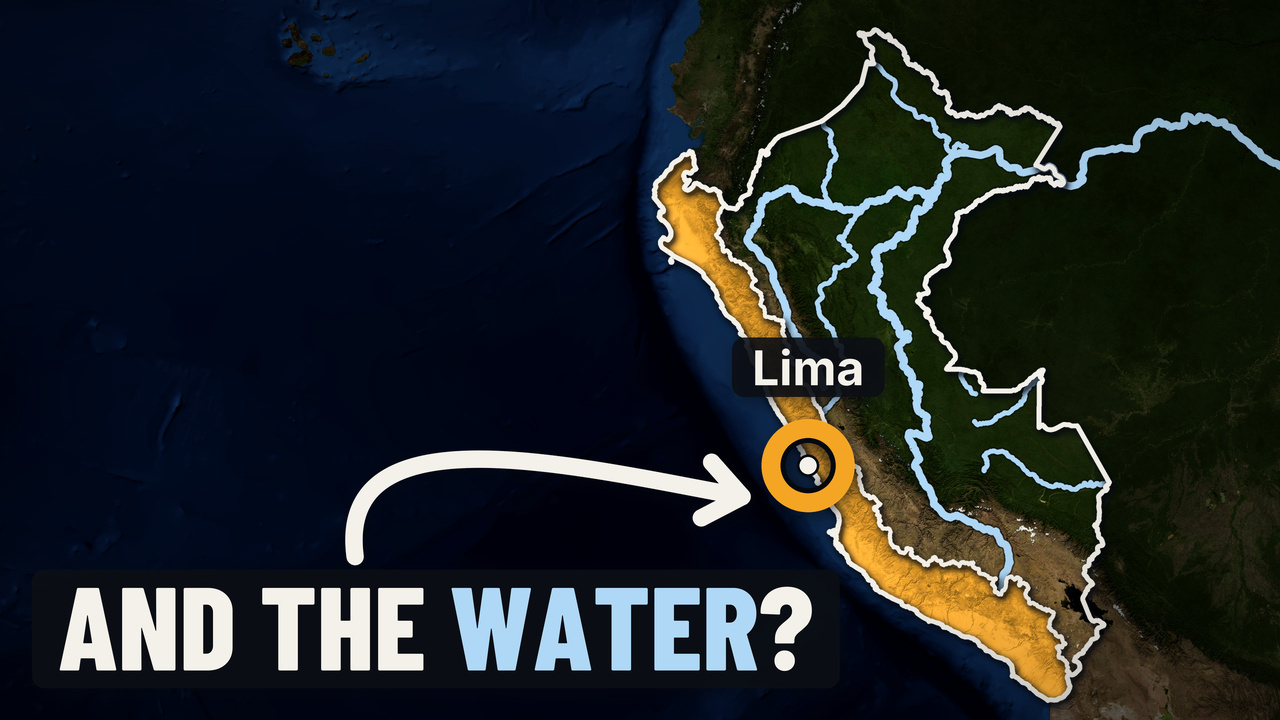
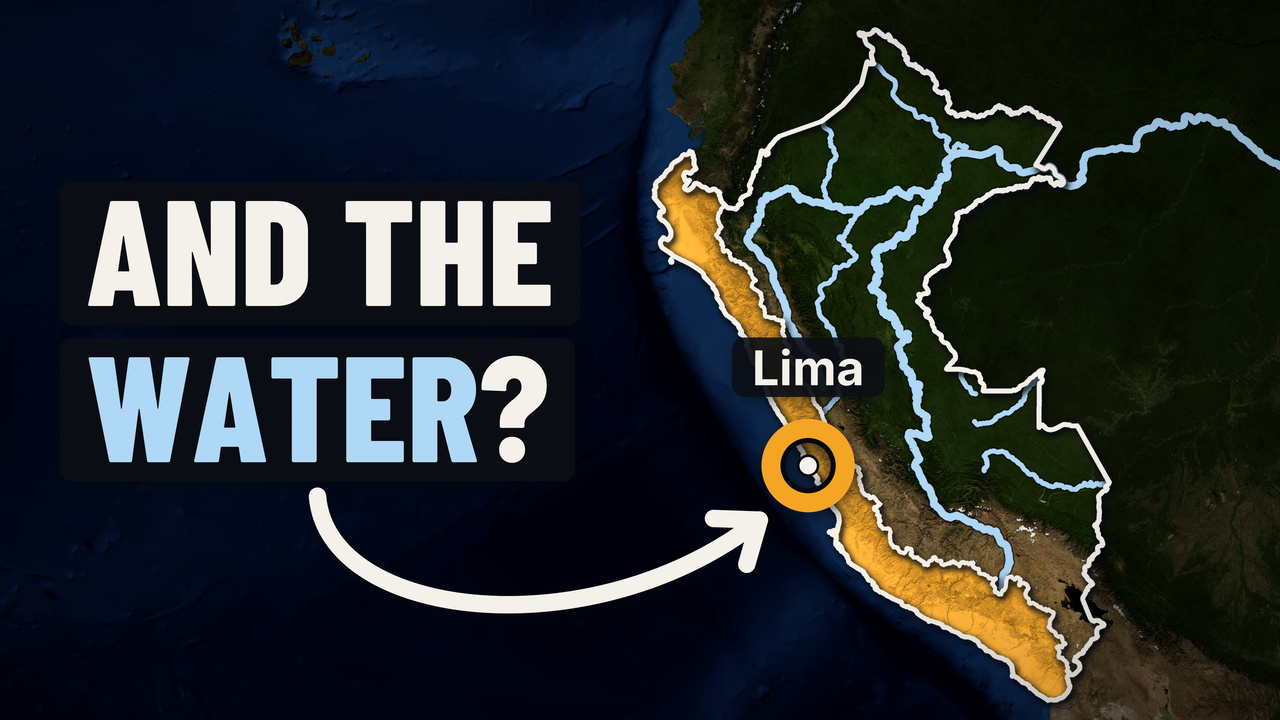
Vídeo 4 (Peru): a miniatura A2 (texto em duas linhas, 300 px, no centro-esquerda; a seta saindo de baixo até Lima)
O Lucas, depois de ver a A: "A thumb talvez pudesse ter o texto mais no centro esquerdo com a seta na parte inferior. Poderia ser fonte
maior em duas linhas". À A2: "Fica a A2 (Recomendado)". base-A2.py e A2-pontos.json em roteiros/peru-agua/miniatura/; os JPG de 1280 e
2560 são a A2.

Changed region(s): [[0.0312, 0.4889, 0.6562, 0.9472], [0.0625, 0.275, 0.4375, 0.4278]]

diff --git a/roteiros/peru-agua/miniatura/base-A2.py b/roteiros/peru-agua/miniatura/base-A2.py
@@ -1,0 +1,310 @@
+"""A miniatura A do vídeo 4 (Peru, "Why Peru Lives on the Dry Side of the Andes"): O CONTRASTE. Versão A2.
+
+    python -X utf8 -B out/peru-agua/_tmp/miniatura/A2/base-A2.py        (da raiz do canal; sem rede)
+
+A2 (Lucas, 24/10/2026: "A thumb talvez pudesse ter o texto mais no centro esquerdo com a seta na parte inferior. Poderia ser fonte maior
+em duas linhas"): a pílula-herói em duas linhas ("AND THE" / "WATER?"), aos 300 px da receita (marca/embalagem.md §3), no centro-esquerda
+sobre o Pacífico, e a seta saindo de baixo dela até o anel de Lima. A base, o Peru, o lado seco, os rios, a divisória, o anel e o nome são
+os da A, sem mudança. Grava em out/peru-agua/_tmp/miniatura/A2/.
+
+A IDEIA. O Peru visto de cima, partido pela divisória dos Andes: o lado do Pacífico (estreito, seco, onde vive a maioria) pintado
+de --destaque, o protagonista; o lado da Amazônia (largo, verde, onde está a água) no satélite, com os rios em --agua. Lima, no lado
+seco, marcada pela receita com pílula (marca/embalagem.md §3): o anel, o ponto, o nome e a seta que sai da pílula-herói. A pílula
+faz a pergunta que o título deixa aberta, sem dar a resposta (o porquê): "AND THE WATER?", com WATER em --agua, a cor dos rios.
+
+DE ONDE VEM CADA COISA (nada desenhado à mão nem por IA):
+- a base: NASA Blue Marble Next Generation com relevo sombreado e batimetria (camada BlueMarble_ShadedRelief_Bathymetry da NASA
+  GIBS, WMS oficial, EPSG:3857), baixada por baixar-base-A.py num pedido só, com o User-Agent do canal
+  (_base/bmng-relevo-batimetria-5120-w99.jpg e o .json ao lado, com URL e sha256). A 1ª rodada usou a BlueMarble_NextGeneration
+  sem relevo (_base/bmng-peru-5120-w99.jpg): o mar saiu preto, a metade esquerda virou mancha, e os Andes ficaram lisos.
+  Domínio público (imagem da NASA); o crédito vai na descrição, não na tela. Este script não tem código de rede;
+- o Peru: _media/geo/peru-ne.json (Natural Earth 1:10m, domínio público);
+- o lado do Pacífico e a divisória: _media/geo/vertente-pacifico.json e divisoria-continental-peru.json (HydroBASINS v1c nível 6,
+  recortado pelo peru-ne; licença HydroSHEDS v1, aceita pelo Lucas em 22/10/2026; o Exhibit B vai na descrição, nada na tela);
+- os rios: _media/geo/rios-vertente-atlantico.json e amazonas-ate-o-atlantico.json (Natural Earth 1:10m, domínio público). Nenhuma
+  camada do OpenStreetMap (pediria o crédito na tela);
+- Lima: _media/geo/cidades-peru-ne.json (Natural Earth, -77.052008, -12.046067).
+
+Grava em out/peru-agua/_tmp/miniatura/A/: miniatura-A-2560.png, miniatura-A-1280.jpg (≤ 2 MB), miniatura-A-320.png,
+miniatura-A-168.png e A-pontos.json (as conferências).
+"""
+import json, math, os
+import numpy as np
+import cv2
+from PIL import Image, ImageDraw, ImageFilter, ImageFont
+
+RAIZ = os.getcwd()
+AQUI = os.path.join(RAIZ, "out", "peru-agua", "_tmp", "miniatura", "A")      # a base baixada da A
+SAIDA = os.path.join(RAIZ, "out", "peru-agua", "_tmp", "miniatura", "A2")
+GEO = os.path.join(RAIZ, "out", "peru-agua", "_media", "geo")
+FONTES = os.path.join(RAIZ, "marca", "fontes")
+W, H = 2560, 1440
+SS = 2  # supersample das camadas vetoriais
+
+# o quadro: o mesmo bbox do pedido à GIBS (EPSG:3857, metros); 72 px por grau de longitude no palco
+R = 6378137.0
+X0, X1, Y0, Y1 = -11076290.0, -7118290.0, -2137340.0, 89060.0
+MPP = (X1 - X0) / W
+assert abs((Y1 - Y0) / H - MPP) < 1.0
+
+# a marca (marca/tokens.css)
+TINTA = np.array((244, 241, 234), float)       # --tinta
+DEST = np.array((245, 165, 36), float)         # --destaque
+AGUA = (175, 216, 246)                         # --agua
+ROTULO = (11, 15, 20, int(0.88 * 255))         # --rotulo
+ESCURO = (4, 8, 16)
+
+
+def palco(lon, lat, s=1):
+    x = R * math.radians(lon)
+    y = R * math.log(math.tan(math.pi / 4 + math.radians(lat) / 2))
+    return ((x - X0) / MPP * s, (Y1 - y) / MPP * s)
+
+
+def ler(nome):
+    return json.load(open(os.path.join(GEO, nome), encoding="utf-8"))
+
+
+def aneis(geom):
+    if geom["type"] == "Polygon":
+        return [geom["coordinates"]]
+    if geom["type"] == "MultiPolygon":
+        return geom["coordinates"]
+    return []
+
+
+def linhas(geom):
+    if geom["type"] == "LineString":
+        return [geom["coordinates"]]
+    if geom["type"] == "MultiLineString":
+        return geom["coordinates"]
+    return []
+
+
+def mascara(fc):
+    im = Image.new("L", (W * SS, H * SS), 0)
+    d = ImageDraw.Draw(im)
+    for f in fc["features"]:
+        for poli in aneis(f["geometry"]):
+            ext, *buracos = poli
+            d.polygon([palco(*p, SS) for p in ext], fill=255)
+            for b in buracos:
+                d.polygon([palco(*p, SS) for p in b], fill=0)
+    return np.asarray(im.resize((W, H), Image.LANCZOS)).astype(float) / 255.0
+
+
+def borrar(a, r):
+    return np.asarray(Image.fromarray((np.clip(a, 0, 1) * 255).astype(np.uint8)).filter(ImageFilter.GaussianBlur(r))) / 255.0
+
+
+def tracos(fc, larg, filtro=lambda f: True):
+    """as linhas de um FeatureCollection como máscara (0..1), com a largura em px do palco"""
+    im = Image.new("L", (W * SS, H * SS), 0)
+    d = ImageDraw.Draw(im)
+    for f in fc["features"]:
+        if not filtro(f):
+            continue
+        lw = larg(f) if callable(larg) else larg
+        for ln in linhas(f["geometry"]):
+            pts = [palco(*p, SS) for p in ln]
+            d.line(pts, fill=255, width=int(lw * SS), joint="curve")
+            r = lw * SS / 2
+            for p in (pts[0], pts[-1]):
+                d.ellipse([p[0] - r, p[1] - r, p[0] + r, p[1] + r], fill=255)
+    return np.asarray(im.resize((W, H), Image.LANCZOS)).astype(float) / 255.0
+
+
+def contorno(fc, lw):
+    im = Image.new("L", (W * SS, H * SS), 0)
+    d = ImageDraw.Draw(im)
+    for f in fc["features"]:
+        for poli in aneis(f["geometry"]):
+            for anel in poli:
+                pts = [palco(*p, SS) for p in anel]
+                d.line(pts + [pts[0]], fill=255, width=int(lw * SS), joint="curve")
+    return np.asarray(im.resize((W, H), Image.LANCZOS)).astype(float) / 255.0
+
+
+def compor(img, cor, a):
+    return img * (1 - a[..., None]) + np.asarray(cor, float)[None, None, :3] * a[..., None]
+
+
+# 1 · a base: a Blue Marble, ao palco, com o filtro da receita (brightness .9, saturate 1, contrast 1.05)
+b = Image.open(os.path.join(AQUI, "_base", "bmng-relevo-batimetria-5120-w99.jpg")).convert("RGB").resize((W, H), Image.LANCZOS)
+img = np.asarray(b).astype(float) / 255.0
+img = np.clip(((img * 0.9) - 0.5) * 1.05 + 0.5, 0, 1) * 255.0
+lum = img @ np.array([0.2126, 0.7152, 0.0722])
+
+# 2 · o Peru e os vizinhos: fora do Peru, a base cai a 62 % (o Peru salta); dentro, como está
+peru_fc = ler("peru-ne.json")
+peru = mascara(peru_fc)
+img = img * (0.66 + 0.56 * peru)[..., None]  # rodada 2: dentro do Peru, 1,22× (o verde da Amazônia saía escuro demais em 168 px)
+
+# 3 · o lado do Pacífico em --destaque, com o relevo da base por baixo (a luminância local modula o laranja)
+pac_fc = ler("vertente-pacifico.json")
+pac = mascara(pac_fc) * peru
+lm = float(lum[pac > 0.5].mean())
+sombra_rel = np.clip(0.62 + 0.42 * (lum / lm), 0.55, 1.18)
+laranja = DEST[None, None, :] * sombra_rel[..., None]
+img = img * (1 - 0.80 * pac[..., None]) + laranja * (0.80 * pac[..., None])
+
+# 4 · os rios do lado da água, em --agua, com um filete escuro por baixo (lê sobre o verde e sobre o cinza dos vizinhos)
+rios_fc = ler("rios-vertente-atlantico.json")
+amaz_fc = ler("amazonas-ate-o-atlantico.json")
+PRINCIPAIS = {"Amazonas", "Ucayali", "Marañón"}
+larg_rio = lambda f: 15 if f["properties"].get("name") in PRINCIPAIS else 10  # rodada 2: de 11/7 para 15/10 (sumiam em 168 px)
+rios = np.maximum(tracos(rios_fc, larg_rio), tracos(amaz_fc, 15))
+rios_casco = np.maximum(tracos(rios_fc, lambda f: larg_rio(f) + 6), tracos(amaz_fc, 21))
+img = compor(img, ESCURO, 0.55 * rios_casco)
+img = compor(img, AGUA, rios)
+
+# 5 · a divisória (Pacífico × Atlântico e Pacífico × Titicaca: a borda de dentro do lado seco) e o contorno do Peru, em --tinta,
+#     com sombra deslocada
+div_fc = ler("divisoria-continental-peru.json")
+div = tracos(div_fc, 8, lambda f: f["properties"]["entre"].startswith("pacifico"))
+borda = contorno(peru_fc, 10)
+linhas_tinta = np.maximum(div, borda)
+somb = np.roll(np.roll(borrar(linhas_tinta, 7), 6, axis=0), 4, axis=1)
+img = compor(img, ESCURO, 0.70 * np.clip(somb * 2.2, 0, 1) * (1 - linhas_tinta))
+img = compor(img, TINTA, linhas_tinta)
+
+# 6 · a vinheta: até 35 % de preto nas bordas
+yy, xx = np.mgrid[0:H, 0:W]
+dn = np.sqrt(((xx - W / 2) / (W / 2)) ** 2 + ((yy - H / 2) / (H / 2)) ** 2) / math.sqrt(2)
+img = img * (1 - 0.35 * np.clip((dn - 0.45) / 0.55, 0, 1) ** 1.6)[..., None]
+
+base = Image.fromarray(np.clip(img, 0, 255).astype(np.uint8)).convert("RGBA")
+
+# 7 · as peças da receita, em supersample 2× (camada RGBA por cima)
+K = 2
+cam = Image.new("RGBA", (W * K, H * K), (0, 0, 0, 0))
+somb_l = Image.new("L", (W * K, H * K), 0)  # a sombra difusa de todas as peças
+dc, ds = ImageDraw.Draw(cam), ImageDraw.Draw(somb_l)
+
+lima = palco(-77.052008, -12.046067)
+LX, LY = lima
+
+# 7a · o anel (224 px, traço 38, --destaque, contorno escuro de 5 px por dentro e por fora) e o ponto branco de 34 px
+RA = 112 - 19  # raio do meio do traço
+for rr, lw, cor in ((RA, 38 + 10, ESCURO + (255,)), (RA, 38, tuple(DEST.astype(int)) + (255,))):
+    dc.ellipse([(LX - rr) * K, (LY - rr) * K, (LX + rr) * K, (LY + rr) * K], outline=cor, width=int(lw * K))
+ds.ellipse([(LX - RA) * K, (LY - RA) * K, (LX + RA) * K, (LY + RA) * K], outline=200, width=int(60 * K))
+RP = 17
+dc.ellipse([(LX - RP - 5) * K, (LY - RP - 5) * K, (LX + RP + 5) * K, (LY + RP + 5) * K], fill=ESCURO + (255,))
+dc.ellipse([(LX - RP) * K, (LY - RP) * K, (LX + RP) * K, (LY + RP) * K], fill=tuple(TINTA.astype(int)) + (255,))
+
+# 7b · o nome do lugar: "Lima", Inter 700, 96 px, na pílula --rotulo, acima do anel
+inter = ImageFont.truetype(os.path.join(FONTES, "inter", "Inter-VF.ttf"), 96 * K)
+inter.set_variation_by_name("Bold")
+nome = "Lima"
+bb = inter.getbbox(nome)
+PADX, PADY = 40, 22
+nw, nh = (bb[2] - bb[0]) / K + 2 * PADX, (bb[3] - bb[1]) / K + 2 * PADY
+nx0, ny1 = LX - nw / 2, LY - 112 - 26
+ny0 = ny1 - nh
+dc.rounded_rectangle([nx0 * K, ny0 * K, (nx0 + nw) * K, ny1 * K], radius=24 * K, fill=ROTULO)
+ds.rounded_rectangle([nx0 * K, ny0 * K, (nx0 + nw) * K, ny1 * K], radius=24 * K, fill=170)
+dc.text(((nx0 + PADX) * K - bb[0], (ny0 + PADY) * K - bb[1]), nome, font=inter, fill=tuple(TINTA.astype(int)) + (255,))
+
+# 7c · a pílula-herói em duas linhas, no centro-esquerda, sobre o Pacífico: Barlow Condensed 800, 300 px, CAIXA ALTA, WATER em --agua.
+#      Uma pílula por linha, alinhadas à esquerda; o bloco centrado na altura, um pouco acima do meio, para a seta caber embaixo.
+barlow = ImageFont.truetype(os.path.join(FONTES, "barlowcondensed", "BarlowCondensed-ExtraBold.ttf"), 1)
+T = tuple(TINTA.astype(int))
+LINHAS = [[("AND THE", T)], [("WATER", AGUA), ("?", T)]]
+TXT = " / ".join("".join(p for p, _ in l) for l in LINHAS)
+FS = 300
+barlow = barlow.font_variant(size=FS * K)
+tb = barlow.getbbox("AND THE WATER?")  # o alto das maiúsculas (sem descendente: a caixa alta não tem)
+HPX, HPY, GAP = 52, 36, 26
+hh = (tb[3] - tb[1]) / K + 2 * HPY
+larguras = [sum(barlow.getlength(p) for p, _ in l) / K + 2 * HPX for l in LINHAS]
+bloco_h = len(LINHAS) * hh + GAP * (len(LINHAS) - 1)
+hx0 = 120
+hy0 = round(H * 0.46 - bloco_h / 2)
+caixas = []
+y = hy0
+for linha, hw in zip(LINHAS, larguras):
+    dc.rounded_rectangle([hx0 * K, y * K, (hx0 + hw) * K, (y + hh) * K], radius=24 * K, fill=ROTULO)
+    ds.rounded_rectangle([hx0 * K, y * K, (hx0 + hw) * K, (y + hh) * K], radius=24 * K, fill=200)
+    cx = (hx0 + HPX) * K
+    for parte, cor in linha:
+        dc.text((cx, (y + HPY) * K - tb[1]), parte, font=barlow, fill=cor + (255,))
+        cx += barlow.getlength(parte)
+    caixas.append((hx0, y, hx0 + hw, y + hh))
+    y += hh + GAP
+hw = max(larguras)
+hy1 = caixas[-1][3]
+
+# 7d · a seta: --tinta, traço 34, pontas redondas, sombra; uma curva (Bézier cúbica) que sai de baixo da pílula, desce, varre para a
+#      direita por baixo e sobe até a borda do anel, chegando pelo lado de baixo à esquerda
+p0 = (hx0 + larguras[-1] * 0.50, hy1 + 30)
+alvo_ang = math.radians(228)
+p3 = (LX + (112 + 34) * math.cos(alvo_ang), LY - (112 + 34) * math.sin(alvo_ang))
+p1 = (p0[0] + 20, p0[1] + 250)
+p2 = (p3[0] - 330, p3[1] + 260)
+curva = []
+for i in range(161):
+    t = i / 160
+    x = (1 - t) ** 3 * p0[0] + 3 * (1 - t) ** 2 * t * p1[0] + 3 * (1 - t) * t * t * p2[0] + t ** 3 * p3[0]
+    y = (1 - t) ** 3 * p0[1] + 3 * (1 - t) ** 2 * t * p1[1] + 3 * (1 - t) * t * t * p2[1] + t ** 3 * p3[1]
+    curva.append((x, y))
+comp_seta = sum(math.dist(curva[i], curva[i + 1]) for i in range(160))
+dx, dy = curva[-1][0] - curva[-8][0], curva[-1][1] - curva[-8][1]
+ang = math.atan2(dy, dx)
+ponta = [(p3[0] - 92 * math.cos(ang + s * math.radians(38)), p3[1] - 92 * math.sin(ang + s * math.radians(38))) for s in (-1, 1)]
+seta = np.zeros((H * K, W * K), np.uint8)
+for seg in (curva, [ponta[0], p3], [ponta[1], p3]):  # cv2: traço grosso com pontas redondas, sem os dentes do ImageDraw
+    pts = np.array([[round(x * K * 16), round(y * K * 16)] for x, y in seg], np.int32)
+    cv2.polylines(seta, [pts], False, 255, thickness=34 * K, lineType=cv2.LINE_AA, shift=4)
+seta_l = Image.fromarray(seta)
+somb_l.paste(220, (0, 0), seta_l)
+cam_seta = Image.new("RGBA", (W * K, H * K), tuple(TINTA.astype(int)) + (0,))
+cam_seta.putalpha(seta_l)
+
+# 7e · a sombra difusa (deslocada) sob tudo, e a composição
+sombra = somb_l.resize((W, H), Image.LANCZOS).filter(ImageFilter.GaussianBlur(16))
+sombra = Image.fromarray(np.roll(np.roll(np.asarray(sombra), 10, 0), 6, 1))
+camada_sombra = Image.new("RGBA", (W, H), ESCURO + (0,))
+camada_sombra.putalpha(sombra.point(lambda v: int(v * 0.75)))
+final = Image.alpha_composite(base, camada_sombra)
+final = Image.alpha_composite(final, cam_seta.resize((W, H), Image.LANCZOS))
+final = Image.alpha_composite(final, cam.resize((W, H), Image.LANCZOS)).convert("RGB")
+
+final.save(os.path.join(SAIDA, "miniatura-A2-2560.png"))
+m1280 = final.resize((1280, 720), Image.LANCZOS)
+q = 95
+while True:
+    m1280.save(os.path.join(SAIDA, "miniatura-A2-1280.jpg"), quality=q, subsampling=0, optimize=True)
+    if os.path.getsize(os.path.join(SAIDA, "miniatura-A2-1280.jpg")) <= 2 * 1024 * 1024 or q <= 70:
+        break
+    q -= 5
+final.resize((320, 180), Image.LANCZOS).save(os.path.join(SAIDA, "miniatura-A2-320.png"))
+p168 = final.resize((168, 94), Image.LANCZOS)
+p168.save(os.path.join(SAIDA, "miniatura-A2-168.png"))
+p168.resize((672, 376), Image.NEAREST).save(os.path.join(SAIDA, "_ver-168x4.png"))
+
+# 8 · as conferências
+CANTO = (W - 320, H - 320)
+ocupa = np.asarray(cam.resize((W, H)).split()[3]) > 10
+ocupa |= peru > 0.5
+canto_livre_pecas = not bool(np.asarray(cam.resize((W, H)).split()[3])[CANTO[1]:, CANTO[0]:].max() > 10)
+canto_peru = float((peru[H - 160:, W - 300:] > 0.5).mean())
+pontos = {
+    "quadro": {"bbox_epsg3857_m": [X0, Y0, X1, Y1], "m_por_px": round(MPP, 2), "px_por_grau_lon": round(W / ((X1 - X0) / R * 180 / math.pi), 2)},
+    "lima_palco": [round(LX, 1), round(LY, 1)],
+    "peru_caixa_palco": [int(np.nonzero(peru.max(0) > 0.5)[0].min()), int(np.nonzero(peru.max(1) > 0.5)[0].min()),
+                         int(np.nonzero(peru.max(0) > 0.5)[0].max()), int(np.nonzero(peru.max(1) > 0.5)[0].max())],
+    "lima_dentro_do_lado_pacifico": bool(pac[int(LY), int(LX)] > 0.5) or bool(pac[int(LY) - 4:int(LY) + 5, int(LX) - 4:int(LX) + 5].max() > 0.5),
+    "lado_pacifico_km2_no_palco": round(float(pac.sum()) * MPP * MPP / 1e6 * math.cos(math.radians(9.5)) ** 2),
+    "seta_comprimento_px": round(comp_seta),
+    "heroi": {"texto": TXT, "fonte_px": FS, "caixas": [[round(v) for v in c] for c in caixas],
+              "fracao_sobre_o_peru": round(float(max(peru[int(c[1]):int(c[3]), int(c[0]):int(c[2])].mean() for c in caixas)), 4)},
+    "seta_ponto_mais_baixo_y": round(max(y for _, y in curva)),
+    "nome": {"texto": nome, "caixa": [round(nx0), round(ny0), round(nx0 + nw), round(ny1)]},
+    "canto_duracao_320": {"caixa": [CANTO[0], CANTO[1], W, H], "sem_pecas": canto_livre_pecas},
+    "canto_duracao_300x160_fracao_peru": round(canto_peru, 4),
+    "jpg_1280_bytes": os.path.getsize(os.path.join(SAIDA, "miniatura-A2-1280.jpg")), "jpg_qualidade": q,
+    "pedidos_de_rede": 0,
+}
+json.dump(pontos, open(os.path.join(SAIDA, "A2-pontos.json"), "w", encoding="utf-8"), indent=1, ensure_ascii=False)
+print(json.dumps(pontos, ensure_ascii=False))

diff --git a/roteiros/peru-agua/decisoes-lucas.md b/roteiros/peru-agua/decisoes-lucas.md
@@ -280,5 +280,10 @@ As perguntas, com as opções investigadas e conferidas por céticos (out/peru-a
   `--destaque`, os rios amazônicos em `--agua`, Lima com anel e seta (a receita com pílula, `marca/embalagem.md` §3). Os arquivos e os scripts
   estão em `roteiros/peru-agua/miniatura/`. A pílula-herói ficou a 236 px, não aos 300 da receita: a 300 a frase não cabe numa linha sobre o
   mar e cobre Lima. Lê sem esforço a 168×94 (conferido pela Sala na versão ampliada ×4).
+- **A miniatura A2** (Lucas, 24/10/2026, 15:4x, no chat da Sala, depois de ver a A: "A thumb talvez pudesse ter o texto mais no centro esquerdo
+  com a seta na parte inferior. Poderia ser fonte maior em duas linhas"). A Sala fez a A2 (`base-A2.py`): "AND THE" / "WATER?" em duas pílulas,
+  aos 300 px da receita, no centro-esquerda sobre o Pacífico, sem encostar no Peru, e a seta saindo de baixo do texto até o anel de Lima. À
+  pergunta "Fica a A2?": **"Fica a A2 (Recomendado)"**. Os `miniatura-1280.jpg` e `miniatura-2560.jpg` de `roteiros/peru-agua/miniatura/`
+  são a A2; o `base-A.py` fica como histórico.
 - **As conferências da descrição:** "Agora (Recomendado)", à pergunta de quando rodar o verificador de fatos (a cota estava em 91 %, com o
   teto de 93 %). O laudo: 74 de 74 afirmações, nenhuma errada, PASS (`roteiros/peru-agua/qc-roteiro/fatos-descricao.laudo.md`).
